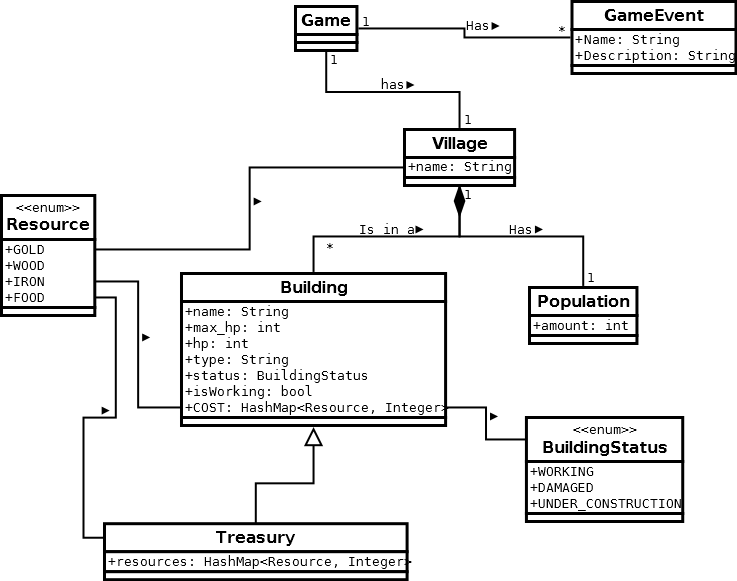
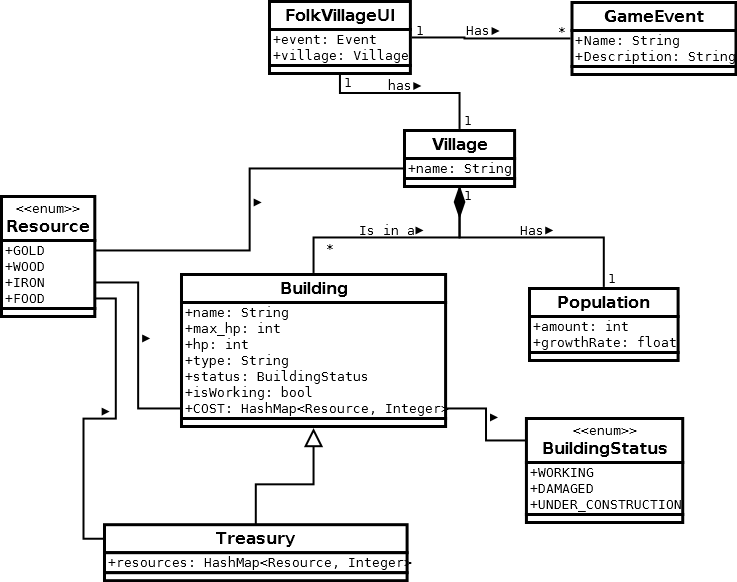
Further UI and sequence diagrams

diff --git a/FolkVillage/src/main/java/folkvillageui/FolkvillageUI.java b/FolkVillage/src/main/java/folkvillageui/FolkvillageUI.java
@@ -20,7 +20,7 @@ public class FolkvillageUI extends javax.swing.JFrame {
     public FolkvillageUI(Village village) {
         this.village = village;
         initComponents();
-        
+        this.tick();        
     }
 
     private FolkvillageUI() {
@@ -36,30 +36,49 @@ public class FolkvillageUI extends javax.swing.JFrame {
     // <editor-fold defaultstate="collapsed" desc="Generated Code">//GEN-BEGIN:initComponents
     private void initComponents() {
 
-        jPanel1 = new javax.swing.JPanel();
+        mainwindow = new javax.swing.JPanel();
+        villageLabel = new javax.swing.JLabel();
         jLabel1 = new javax.swing.JLabel();
+        populationAmount = new javax.swing.JLabel();
         endTurn = new javax.swing.JButton();
-        goToVillage = new javax.swing.JButton();
+        goToOther = new javax.swing.JButton();
         turnClock = new javax.swing.JLabel();
         systemExit = new javax.swing.JButton();
 
         setDefaultCloseOperation(javax.swing.WindowConstants.EXIT_ON_CLOSE);
 
-        jLabel1.setText("Village");
+        villageLabel.setFont(new java.awt.Font("Tahoma", 1, 18)); // NOI18N
+        villageLabel.setText("Village");
 
-        javax.swing.GroupLayout jPanel1Layout = new javax.swing.GroupLayout(jPanel1);
-        jPanel1.setLayout(jPanel1Layout);
-        jPanel1Layout.setHorizontalGroup(
-            jPanel1Layout.createParallelGroup(javax.swing.GroupLayout.Alignment.LEADING)
-            .addGroup(jPanel1Layout.createSequentialGroup()
+        jLabel1.setText("Population:");
+
+        populationAmount.setText("amount");
+
+        javax.swing.GroupLayout mainwindowLayout = new javax.swing.GroupLayout(mainwindow);
+        mainwindow.setLayout(mainwindowLayout);
+        mainwindowLayout.setHorizontalGroup(
+            mainwindowLayout.createParallelGroup(javax.swing.GroupLayout.Alignment.LEADING)
+            .addGroup(javax.swing.GroupLayout.Alignment.TRAILING, mainwindowLayout.createSequentialGroup()
+                .addContainerGap(215, Short.MAX_VALUE)
+                .addComponent(villageLabel)
+                .addGap(200, 200, 200))
+            .addGroup(mainwindowLayout.createSequentialGroup()
+                .addContainerGap()
                 .addComponent(jLabel1)
-                .addGap(0, 533, Short.MAX_VALUE))
+                .addPreferredGap(javax.swing.LayoutStyle.ComponentPlacement.RELATED)
+                .addComponent(populationAmount)
+                .addContainerGap(javax.swing.GroupLayout.DEFAULT_SIZE, Short.MAX_VALUE))
         );
-        jPanel1Layout.setVerticalGroup(
-            jPanel1Layout.createParallelGroup(javax.swing.GroupLayout.Alignment.LEADING)
-            .addGroup(jPanel1Layout.createSequentialGroup()
-                .addComponent(jLabel1)
-                .addContainerGap(434, Short.MAX_VALUE))
+        mainwindowLayout.setVerticalGroup(
+            mainwindowLayout.createParallelGroup(javax.swing.GroupLayout.Alignment.LEADING)
+            .addGroup(mainwindowLayout.createSequentialGroup()
+                .addContainerGap()
+                .addComponent(villageLabel)
+                .addGap(18, 18, 18)
+                .addGroup(mainwindowLayout.createParallelGroup(javax.swing.GroupLayout.Alignment.BASELINE)
+                    .addComponent(jLabel1)
+                    .addComponent(populationAmount))
+                .addContainerGap(javax.swing.GroupLayout.DEFAULT_SIZE, Short.MAX_VALUE))
         );
 
         endTurn.setText("End Turn");
@@ -69,10 +88,10 @@ public class FolkvillageUI extends javax.swing.JFrame {
             }
         });
 
-        goToVillage.setText("Go to village");
-        goToVillage.addActionListener(new java.awt.event.ActionListener() {
+        goToOther.setText("Switch View (not implemented)");
+        goToOther.addActionListener(new java.awt.event.ActionListener() {
             public void actionPerformed(java.awt.event.ActionEvent evt) {
-                goToVillageActionPerformed(evt);
+                goToOtherActionPerformed(evt);
             }
         });
 
@@ -94,14 +113,14 @@ public class FolkvillageUI extends javax.swing.JFrame {
                 .addGroup(layout.createParallelGroup(javax.swing.GroupLayout.Alignment.LEADING)
                     .addComponent(systemExit, javax.swing.GroupLayout.PREFERRED_SIZE, 60, javax.swing.GroupLayout.PREFERRED_SIZE)
                     .addComponent(endTurn)
-                    .addComponent(goToVillage)
+                    .addComponent(goToOther)
                     .addComponent(turnClock))
                 .addPreferredGap(javax.swing.LayoutStyle.ComponentPlacement.RELATED)
-                .addComponent(jPanel1, javax.swing.GroupLayout.DEFAULT_SIZE, javax.swing.GroupLayout.DEFAULT_SIZE, Short.MAX_VALUE)
+                .addComponent(mainwindow, javax.swing.GroupLayout.DEFAULT_SIZE, javax.swing.GroupLayout.DEFAULT_SIZE, Short.MAX_VALUE)
                 .addGap(22, 22, 22))
         );
 
-        layout.linkSize(javax.swing.SwingConstants.HORIZONTAL, new java.awt.Component[] {endTurn, goToVillage, systemExit});
+        layout.linkSize(javax.swing.SwingConstants.HORIZONTAL, new java.awt.Component[] {endTurn, goToOther, systemExit});
 
         layout.setVerticalGroup(
             layout.createParallelGroup(javax.swing.GroupLayout.Alignment.LEADING)
@@ -109,29 +128,52 @@ public class FolkvillageUI extends javax.swing.JFrame {
                 .addContainerGap()
                 .addComponent(turnClock)
                 .addPreferredGap(javax.swing.LayoutStyle.ComponentPlacement.RELATED)
-                .addComponent(goToVillage, javax.swing.GroupLayout.PREFERRED_SIZE, 35, javax.swing.GroupLayout.PREFERRED_SIZE)
+                .addComponent(goToOther, javax.swing.GroupLayout.PREFERRED_SIZE, 35, javax.swing.GroupLayout.PREFERRED_SIZE)
                 .addPreferredGap(javax.swing.LayoutStyle.ComponentPlacement.RELATED)
                 .addComponent(endTurn)
                 .addPreferredGap(javax.swing.LayoutStyle.ComponentPlacement.RELATED, 319, Short.MAX_VALUE)
                 .addComponent(systemExit)
                 .addGap(11, 11, 11))
-            .addComponent(jPanel1, javax.swing.GroupLayout.DEFAULT_SIZE, javax.swing.GroupLayout.DEFAULT_SIZE, Short.MAX_VALUE)
+            .addComponent(mainwindow, javax.swing.GroupLayout.DEFAULT_SIZE, javax.swing.GroupLayout.DEFAULT_SIZE, Short.MAX_VALUE)
         );
 
         pack();
     }// </editor-fold>//GEN-END:initComponents
 
-    private void goToVillageActionPerformed(java.awt.event.ActionEvent evt) {//GEN-FIRST:event_goToVillageActionPerformed
+    private void goToOtherActionPerformed(java.awt.event.ActionEvent evt) {//GEN-FIRST:event_goToOtherActionPerformed
         // TODO add your handling code here:
-    }//GEN-LAST:event_goToVillageActionPerformed
+    }//GEN-LAST:event_goToOtherActionPerformed
 
     private void systemExitActionPerformed(java.awt.event.ActionEvent evt) {//GEN-FIRST:event_systemExitActionPerformed
         System.exit(0);
     }//GEN-LAST:event_systemExitActionPerformed
 
     private void endTurnActionPerformed(java.awt.event.ActionEvent evt) {//GEN-FIRST:event_endTurnActionPerformed
-        this.village.tick();
+        this.tick();
     }//GEN-LAST:event_endTurnActionPerformed
+     
+    /**
+     * Tick is called after every endturn event. It calls Village's tick(),
+     * which distributes the tick to all member's tick functions.
+     * 
+     * After tick, UI updates itself to reflect the new situation
+     */
+    private void tick(){
+        
+        this.village.tick();
+        this.updateVillageScreen();
+        
+    }
+    
+    private void updateVillageScreen(){ 
+        //villagers
+        this.populationAmount.setText( this.village.getPopulation().getPopulationAmountAsString() );
+//        this.populationAmount.setText(this.village.getPopulationAmountAsString()); 
+        //constructed buildings
+        this.updateConstructedBuildings();
+    }
+    
+    private void
     
     /**
      * @param args the command line arguments
@@ -175,10 +217,12 @@ public class FolkvillageUI extends javax.swing.JFrame {
     
     // Variables declaration - do not modify//GEN-BEGIN:variables
     private javax.swing.JButton endTurn;
-    private javax.swing.JButton goToVillage;
+    private javax.swing.JButton goToOther;
     private javax.swing.JLabel jLabel1;
-    private javax.swing.JPanel jPanel1;
+    private javax.swing.JPanel mainwindow;
+    private javax.swing.JLabel populationAmount;
     private javax.swing.JButton systemExit;
     private javax.swing.JLabel turnClock;
+    private javax.swing.JLabel villageLabel;
     // End of variables declaration//GEN-END:variables
 }

diff --git a/FolkVillage/src/main/java/folkvillage/Population.java b/FolkVillage/src/main/java/folkvillage/Population.java
@@ -5,6 +5,8 @@
  */
 package folkvillage;
 
+import static java.lang.Math.*;
+
 /**
  *
  * @author sanho
@@ -15,10 +17,26 @@ public class Population implements Tickable {
     /**
      * The default amount of population
      */
-    public static final int DEFAULT_POPULATION = 100;
+    public static final int     DEFAULT_POPULATION = 500;
+    public static final float   DEFAULT_GROWTHRATE = 1.05F;
      
     //Class variables
     private int amount;
+    private float growthrate;
+    
+    
+    /**
+     * Class constructor
+     * @param amount the amount of villagers
+     * @param multiplier the multiplier by which the population will increase
+     *                      per tick
+     */
+    public Population(int amount, float multiplier){
+        
+        this.amount = amount;
+        this.growthrate = multiplier;
+        
+    }
     
     
     /**
@@ -30,7 +48,7 @@ public class Population implements Tickable {
      */
     public Population(int amount){
         
-        this.amount = amount;
+        this(amount, DEFAULT_GROWTHRATE);        
         
     }
     
@@ -59,7 +77,13 @@ public class Population implements Tickable {
         
     }
     
+    public String getPopulationAmountAsString(){
+        return Integer.toString(this.amount);
+    }
+    
     /*** SETTERS ***/
+    
+    /** Direct population control **/
     
     /**
      * Sets population to x. If x is 0 or lower, population is set to 1
@@ -179,10 +203,61 @@ public class Population implements Tickable {
         }
         
     }
-
+    
+    /** Growthrate manipulation **/
+    
+    /**
+     * Sets the village growth rate
+     * @param newRate float > 0
+     */
+    public void setGrowthrate(float newRate){
+        
+        if(newRate > 0){
+        
+            this.growthrate = newRate;
+        }
+        
+    }
+    
+    public float getGrowthrate(){
+        
+        return this.growthrate;
+        
+    }
+    
+    /**
+     * adds amount to the growth rate
+     * @param amount float > 0
+     */
+    public void addGrowthrate(float amount){
+        
+        if(amount > 0){
+            
+            this.growthrate += amount;
+            
+        }
+        
+    }
+    
+    /**
+     * Substracts amount from growth rate
+     * @param amount > 0
+     */
+    public void substractGrowthrate(float amount){
+        
+        if(amount > 0){
+            
+            this.growthrate -= amount;
+            
+        }
+    }
+      
+    /**
+     * updates population amount based on current growthrate
+     */
     @Override
     public void tick() {
-        System.out.println("ticktockPENIS");
+        this.amount = round(this.amount * this.growthrate);
     }
     
     

diff --git a/FolkVillage/src/test/java/folkvillage/PopulationTest.java b/FolkVillage/src/test/java/folkvillage/PopulationTest.java
@@ -118,4 +118,35 @@ public class PopulationTest {
         assertEquals(instance.getPopulationAmount(), 96 );
     }
     
+    @org.junit.Test
+    public void testSetGrowthrateDoesntAllowNegativeNumbers(){
+        Population instance = new Population(100, 1.2F);
+        float amount = -1F;
+        instance.setGrowthrate(amount);
+        assertEquals(instance.getGrowthrate(), 1.2F);
+    }
+    
+    @org.junit.Test
+    public void testAddGrowthrateDoesntAllowNegativeNumbers(){
+        Population instance = new Population(100, 1.2F);
+        float amount = -1F;
+        instance.addGrowthrate(amount);
+        assertEquals(instance.getGrowthrate(), 1.2F);
+    }
+    
+    @org.junit.Test
+    public void testsubstractGrowthrateDoesntAllowNegativeNumbers(){
+        Population instance = new Population(100, 1.2F);
+        float amount = -1F;
+        instance.substractGrowthrate(amount);
+        assertEquals(instance.getGrowthrate(), 1.2F);
+    }
+    
+    public void testTickUpdatesPopulationCorrectly(){
+        Population instance = new Population(100, 1.333F);
+        instance.tick();
+        assertEquals(instance.getGrowthrate(), 133);
+    }
+    
+    
 }

diff --git a/FolkVillage/src/main/java/folkvillage/Village.java b/FolkVillage/src/main/java/folkvillage/Village.java
@@ -60,7 +60,6 @@ public class Village implements Tickable {
         
     }
     
-    
     public Village(int populationAmount, String name, ArrayList<Building> buildings){
         
         this.population = new Population(populationAmount);
@@ -68,14 +67,16 @@ public class Village implements Tickable {
         this.buildings  = buildings;
     }
     
-    
-    
+    /**
+     * 
+     * @return Default buildings
+     */
     private ArrayList<Building> getDefaultBuildings(){
-        
+
         ArrayList<Building> buildings = new ArrayList();
-        
+
         buildings.add(new Treasury("Treasury"));
-        
+
         return buildings;
     }
     
@@ -86,6 +87,12 @@ public class Village implements Tickable {
     /***********
      * GETTERS *
      ***********/
+    
+
+    
+    public Population getPopulation(){
+        return this.population;
+    }
     
     /**
      * 
